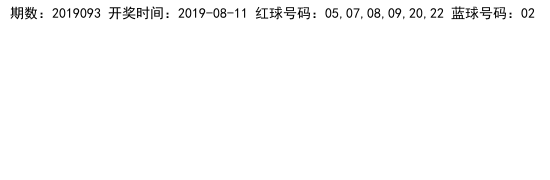
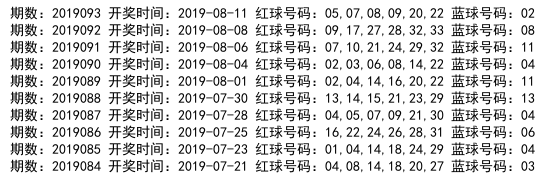
更新最新数据

Changed region(s): [[0.0, 0.4167, 0.9891, 0.8611], [0.0, 0.1111, 0.9891, 0.3889], [0.0, 0.8889, 0.9891, 0.9722]]

diff --git a/lotteryanalysis/sqliteoperator.py b/lotteryanalysis/sqliteoperator.py
@@ -21,7 +21,6 @@ class sqliteoperator:
 
     def __init__(self):
         self.db_file = os.path.join(os.path.abspath(os.path.dirname(__file__)), "..", "docs", "resources", "lottery.db")
-        print(self.db_file)
         self.conn = sqlite3.connect(self.db_file)
 
     def insert_lottery_results(self, lottery_results):
@@ -39,7 +38,7 @@ class sqliteoperator:
 
     def get_latest_lottery(self):
         c = self.conn.cursor()
-        select_sql = "SELECT * FROM lottery_summary ORDER BY lottery_date DESC LIMIT 1"
+        select_sql = "SELECT * FROM lottery_summary ORDER BY lottery_date DESC LIMIT 10"
         cursor = c.execute(select_sql)
         lottery = []
         for row in cursor:

diff --git a/lotteryanalysis/datavisual.py b/lotteryanalysis/datavisual.py
@@ -16,6 +16,7 @@ from sqliteoperator import sqliteoperator
 import datahandle
 from pylab import *
 from PIL import Image, ImageFont, ImageDraw
+from obtainoriginaldata import requests_lottery
 
 sql = sqliteoperator()
 
@@ -299,6 +300,9 @@ def blue_visual():
 
 
 if __name__ == "__main__":
+    response_lottery = requests_lottery("2013-01-01", time.strftime("%Y-%m-%d", time.localtime()))
+    so = sqliteoperator()
+    so.insert_lottery_results(response_lottery)
     sales_money_visual()
     difference_prize_visual()
     blue_statistics_visual()
